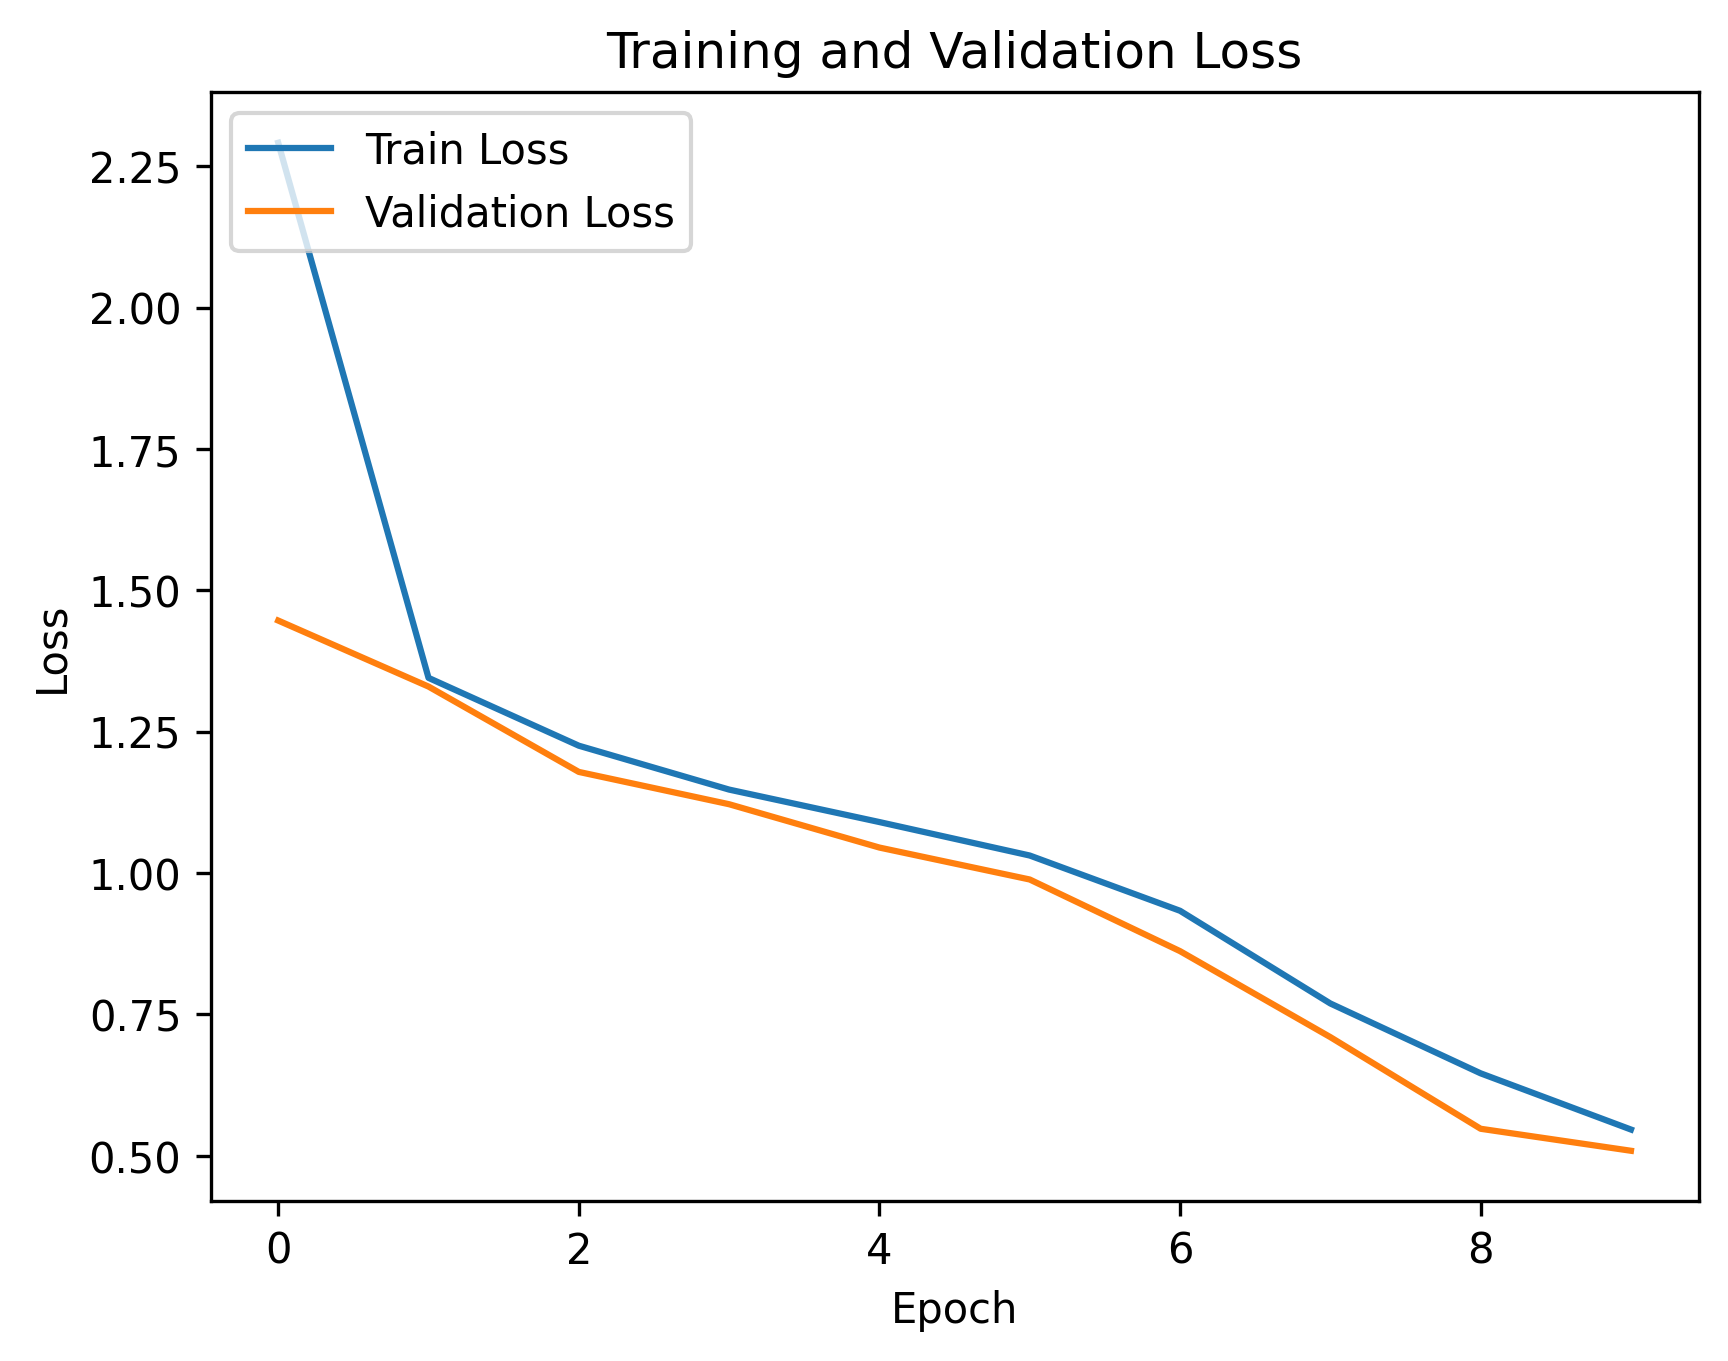
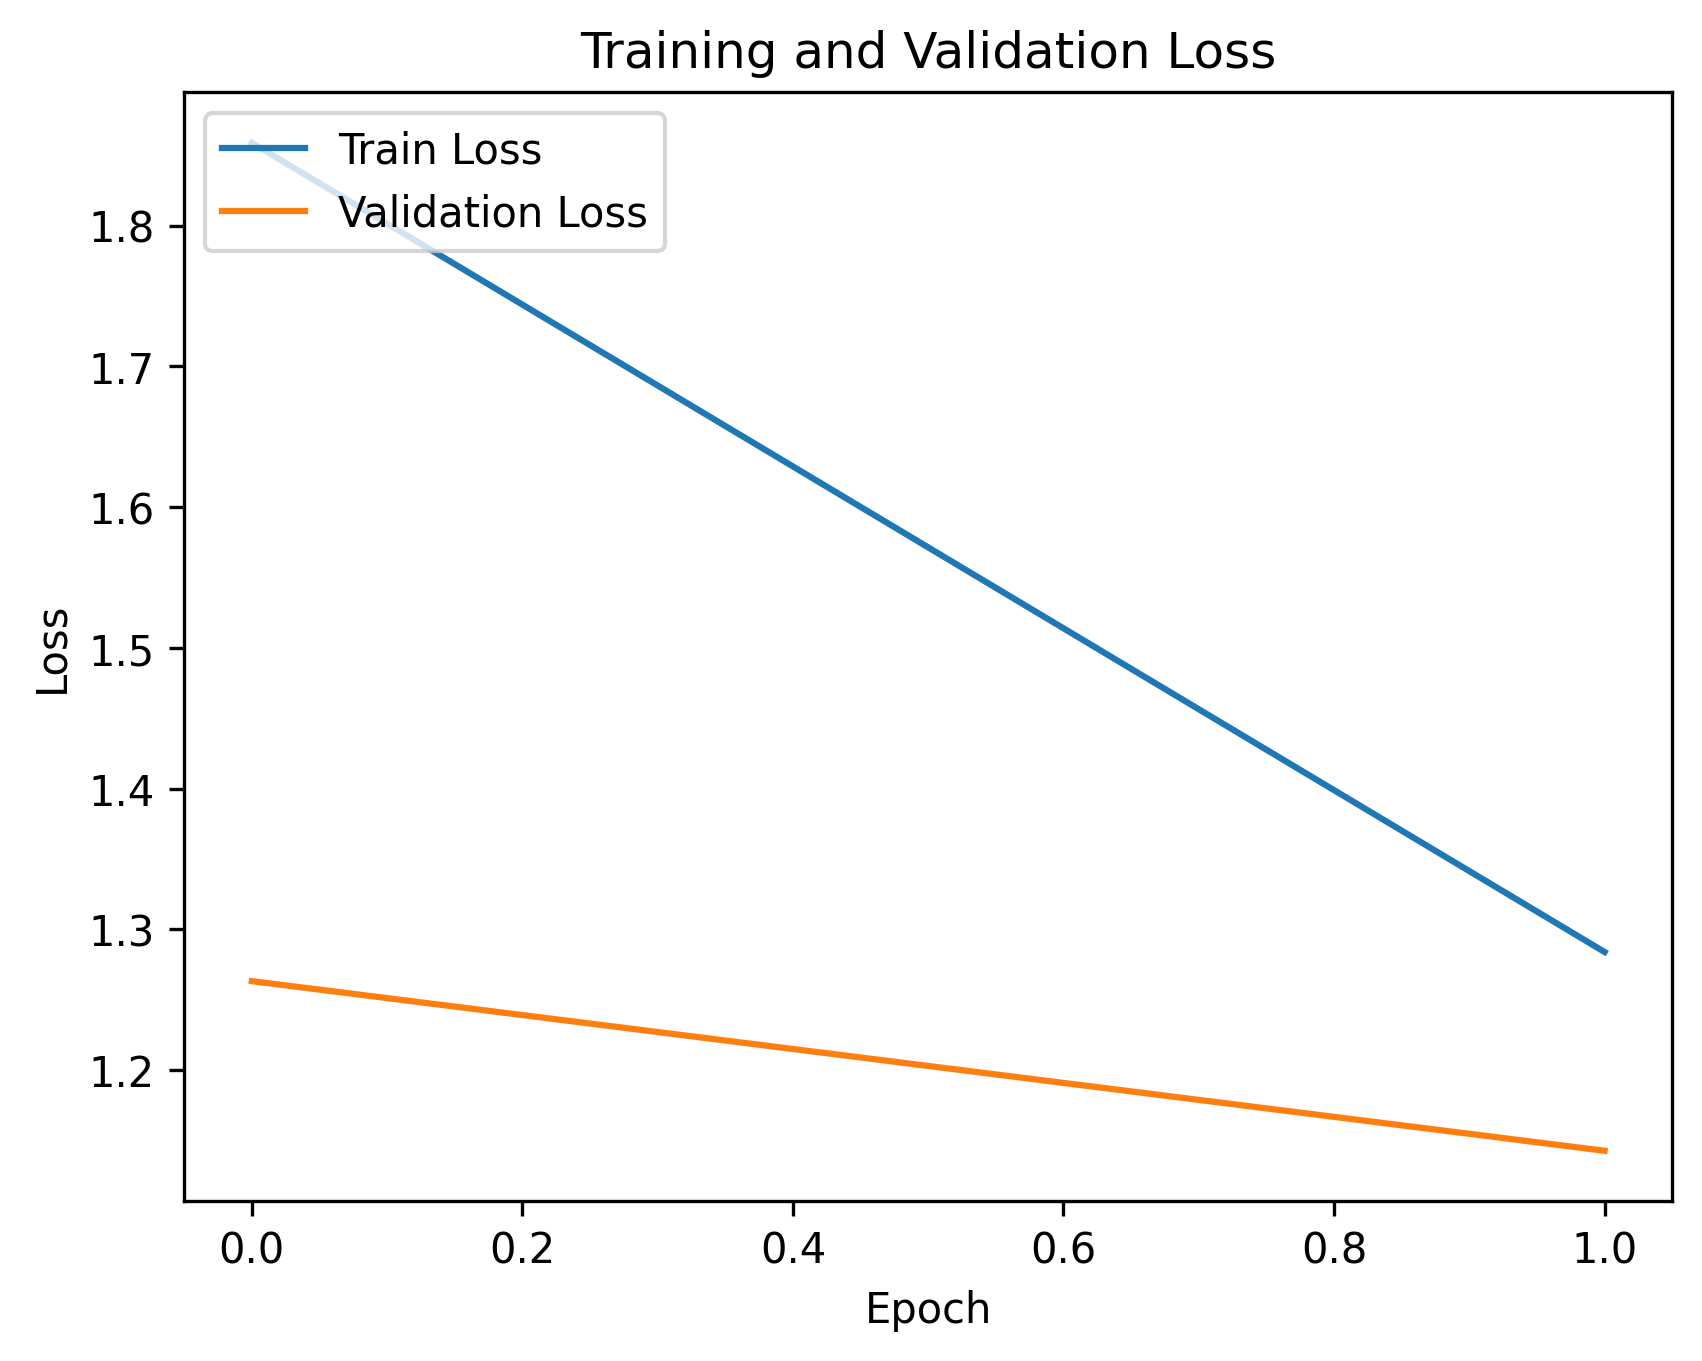
adding functionality to use either full frame auto regression or frame and bin autoreg

diff --git a/specmodel/audio_train.py b/specmodel/audio_train.py
@@ -2,16 +2,16 @@ import torch
 import torch.optim as optim
 from torch.utils.data import DataLoader
 from mel_dataset import collate_fn, MelMaskedDataset
+from mel_model import MelTransformerFrameBin, MelTransformerFrame
 from tqdm import tqdm
 import matplotlib.pyplot as plt
 
 device = torch.device("cuda" if torch.cuda.is_available() else "cpu")
 
-def train_mel(model, train_dataset, val_dataset, num_epochs=50, batch_size=4, lr=1e-4):
+def train_mel(model_type, model, train_dataset, val_dataset, num_epochs=50, batch_size=4, lr=1e-4):
 
     train_dataloader = DataLoader(train_dataset, batch_size=batch_size, collate_fn=collate_fn, shuffle=True)
     val_dataloader = DataLoader(val_dataset, batch_size=batch_size, collate_fn=collate_fn, shuffle=False)
-
 
     model = model.to(device)
     print("Device: ", next(model.parameters()).device)
@@ -27,14 +27,21 @@ def train_mel(model, train_dataset, val_dataset, num_epochs=50, batch_size=4, lr
         progress = tqdm(train_dataloader,desc=f"Epoch {epoch}/{num_epochs}",leave=False)
 
         for mel in progress:
-            loss = train_step(model, criterion, optimizer, mel)
+            if(model_type == "MelTransformerFrameBin"):
+                loss = train_step_framebin(model, criterion, optimizer, mel)
+            elif(model_type == "MelTransformerFrame"):
+                loss = train_step_frame(model, criterion, optimizer, mel)
             total_loss += loss
             progress.set_postfix(train_loss=f"{loss:.4f}")
 
         avg_loss = total_loss / len(train_dataloader)
         train_losses.append(avg_loss)
 
-        avg_val_loss = validate(model, val_dataloader, criterion)
+        if(model_type == "MelTransformerFrameBin"):
+            avg_val_loss = validate_framebin(model, val_dataloader, criterion)
+        elif(model_type == "MelTransformerFrame"):
+            avg_val_loss = validate_frame(model, val_dataloader, criterion)
+
         val_losses.append(avg_val_loss)
 
         print(f"Epoch {epoch}: avg_train_loss = {avg_loss:.4f}, avg_val_loss = {avg_val_loss:.4f}")
@@ -49,7 +56,8 @@ def train_mel(model, train_dataset, val_dataset, num_epochs=50, batch_size=4, lr
     plt.savefig("training vs val loss.png", dpi=300, bbox_inches="tight")
     plt.close()
 
-def train_step(model, criterion, optimizer, mel):
+###-- training functions for frame*freq_bin autoregression --###
+def train_step_framebin(model, criterion, optimizer, mel):
 
     mel = mel.to(device)
 
@@ -70,7 +78,7 @@ def train_step(model, criterion, optimizer, mel):
 
     return loss.item()
 
-def validate(model, dataloader, criterion):
+def validate_framebin(model, dataloader, criterion):
     model.eval()
     total_loss = 0.0
 
@@ -92,7 +100,7 @@ def validate(model, dataloader, criterion):
 
     return total_loss / len(dataloader)
 
-def eval(model, dataset, seed_seconds=7.0, sr=22050, hop_length=256):
+def eval_framebin(model, dataset, seed_seconds=7.0, sr=22050, hop_length=256):
     model.eval()
 
     mel = dataset[0]  # (T, F)
@@ -120,3 +128,77 @@ def eval(model, dataset, seed_seconds=7.0, sr=22050, hop_length=256):
     generated = generated.reshape(1, mel.shape[0], mel.shape[1])
 
     return mel.cpu(), generated.squeeze(0).cpu()
+
+#--------------------------------------------------------------#
+
+###-- training functions for full frame autoregression --###
+def train_step_frame(model, criterion, optimizer, mel):
+
+    mel = mel.to(device)
+
+    # shift for autoregressive training
+    x_input  = mel[:, :-1, :]   # (B, T-1, 80)
+    x_target = mel[:, 1:, :]    # (B, T-1, 80)
+
+    use_model_pred = torch.rand(1).item() < 0.1
+
+    #scheduled sampling randomly
+    if use_model_pred:
+        with torch.no_grad():
+            preds = model(x_input)
+        x_input = preds.detach()
+        
+
+    preds = model(x_input)
+
+    optimizer.zero_grad()
+    loss = criterion(preds, x_target)
+    loss.backward()
+    optimizer.step()
+
+    return loss.item()
+
+def validate_frame(model, dataloader, criterion):
+    model.eval()
+    total_loss = 0.0
+
+    with torch.no_grad():
+        for mel in dataloader:
+            mel = mel.to(device)
+
+            x_input  = mel[:, :-1, :]
+            x_target = mel[:, 1:, :]
+            
+
+            preds = model(x_input)
+
+            loss = criterion(preds, x_target)
+            total_loss += loss.item()
+
+    return total_loss / len(dataloader)
+
+def eval_frame(model, dataset, seed_seconds=7.0, sr=22050, hop_length=256):
+    model.eval()
+
+    mel = dataset[0]  # (T, 80)
+    mel = mel.to(device)
+
+    seed_frames = int(seed_seconds * sr / hop_length)
+
+    seed = mel[:seed_frames].unsqueeze(0)  # (1, T_seed, 80)
+
+    generated = seed.clone()
+
+    num_future = mel.shape[0] - seed_frames
+
+    with torch.no_grad():
+        for _ in range(num_future):
+            preds = model(generated)
+
+            next_frame = preds[:, -1:, :]  # last timestep
+
+            generated = torch.cat([generated, next_frame], dim=1)
+
+    generated = generated.squeeze(0).cpu()
+
+    return mel.cpu(), generated

diff --git a/specmodel/mel_trainer.py b/specmodel/mel_trainer.py
@@ -1,6 +1,6 @@
-from mel_model import MelTransformer
+from mel_model import MelTransformerFrameBin, MelTransformerFrame
 from mel_dataset import MelMaskedDataset, get_dataset_splits
-from audio_train import train_mel, eval
+from audio_train import train_mel, eval_frame, eval_framebin
 from mel_utils import write_to_waveform, get_hifi_gan_generator, compare_mels
 import argparse
 
@@ -40,6 +40,11 @@ def main():
                         type=int, 
                         default=42
                         )
+    
+    parser.add_argument("--model", 
+                        type=str, 
+                        default="MelTransformerFrame"
+                        )
 
     args = parser.parse_args()
 
@@ -70,6 +75,7 @@ def main():
     D_FF = mel_config['dim_feedforward']
     DROPOUT = mel_config['dropout']
 
+    
     full_dataset = MelMaskedDataset(
     mel_dir=args.mel_dir,
     mask_seconds=MASK_SECONDS, 
@@ -83,29 +89,47 @@ def main():
     print("Validation dataset length: ", len(val_set))
 
     try:
-        model = MelTransformer(
+        if(args.model == "MelTransformerFrameBin"):
+            model = MelTransformerFrameBin(
             n_mels=N_MELS, 
             d_model=D_MODEL, 
             n_heads=N_HEADS, 
             n_layers=N_LAYERS,
             dim_feedforward=D_FF,
             dropout=DROPOUT
-        )
-    
+            )
+        elif(args.model == "MelTransformerFrame"):
+            model = MelTransformerFrame(
+            n_mels=N_MELS, 
+            d_model=D_MODEL, 
+            n_heads=N_HEADS, 
+            n_layers=N_LAYERS,
+            dim_feedforward=D_FF,
+            dropout=DROPOUT
+            )
+        else:
+            print("Unable to initialize...wrong model name")
+            exit()
+
     except Exception as e: 
         print("Unable to initialize")
         print(e)
-        exit()
-    
-    
-    print("Beginning Mel Training")
-    train_mel(model=model, train_dataset=train_set, val_dataset=val_set, num_epochs=args.epochs, batch_size=args.batch_size, lr=args.lr)
+        exit()    
+    print("--------------------------")
+    print(f"Beginning Mel Training for {args.model}...")
+    print(f"{args.model}: n_mels: {N_MELS}, d_model: {D_MODEL}, n_heads: {N_HEADS}, n_layers: {N_LAYERS}, dim_feedforward : {D_FF}, dropout: {DROPOUT}")
+    print("--------------------------")
+
+    train_mel(model_type=args.model, model=model, train_dataset=train_set, val_dataset=val_set, num_epochs=args.epochs, batch_size=args.batch_size, lr=args.lr)
     seed_frames = int(CLIP_LENGTH - MASK_SECONDS) #in seconds
-    ground_truth_mel, predicted_mel = eval(model, val_set, seed_seconds=seed_frames)
+    if(args.model=="MelTransformerFrame"):
+        ground_truth_mel, predicted_mel = eval_frame(model, val_set, seed_seconds=seed_frames)
+    elif(args.model=="MelTransformerFrameBin"):
+        ground_truth_mel, predicted_mel = eval_framebin(model, val_set, seed_seconds=seed_frames)
     #generator = get_hifi_gan_generator()
     #write_to_waveform("ground_truth_wav.wav", ground_truth_mel, generator, SAMPLE_RATE)
     #write_to_waveform("predicted_wav.wav", predicted_mel, generator, SAMPLE_RATE)
-    compare_mels(groundtruth=ground_truth_mel, predmel=predicted_mel, sample_rate=SAMPLE_RATE, hop_length=HOP_LENGTH)
+    compare_mels(model_type=args.model, groundtruth=ground_truth_mel, predmel=predicted_mel, sample_rate=SAMPLE_RATE, hop_length=HOP_LENGTH)
 
 
 if __name__ == "__main__":

diff --git a/specmodel/mel_model.py b/specmodel/mel_model.py
@@ -7,7 +7,8 @@ def generate_causal_mask(T, device):
         mask = torch.triu(torch.ones(T, T, device=device), diagonal=1)
         return mask.bool()
 
-class MelTransformer(nn.Module):
+###-- Used for Frame*Freq_bin auto regression --###
+class MelTransformerFrameBin(nn.Module):
     def __init__(
         self,
         n_mels,
@@ -19,7 +20,7 @@ class MelTransformer(nn.Module):
         max_len=2000  # for positional encoding
 
     ):
-        super(MelTransformer, self).__init__()
+        super(MelTransformerFrameBin, self).__init__()
 
         self.input_proj = nn.Linear(1, d_model)
 
@@ -59,4 +60,59 @@ class MelTransformer(nn.Module):
 
         x = self.output_proj(x)  # (B, L, 1)
 
+        return x
+
+###-- Used for Frame auto regression --###
+class MelTransformerFrame(nn.Module):
+    def __init__(
+        self,
+        n_mels=80,
+        d_model=128,
+        n_heads=4,
+        n_layers=4,
+        dim_feedforward=512,
+        dropout=0.1,
+        max_len=2000  # for positional encoding
+
+    ):
+        super(MelTransformerFrame, self).__init__()
+
+        self.input_proj = nn.Linear(n_mels, d_model)
+
+        self.pos_embedding = nn.Parameter(torch.randn(1, max_len, d_model))
+
+        encoder_layer = nn.TransformerEncoderLayer(
+            d_model=d_model,
+            nhead=n_heads,
+            dim_feedforward=dim_feedforward,
+            activation = "relu",
+            dropout=dropout,
+            batch_first=True
+        )
+
+        self.transformer = nn.TransformerEncoder(
+            encoder_layer,
+            num_layers=n_layers
+        )
+
+        self.output_proj = nn.Linear(d_model, n_mels)
+    
+
+    def forward(self, x):
+        # x: (B, T, 80)
+
+        #input projection to encoder
+        x = self.input_proj(x)     # (B, T, D)
+
+        #positional encoding
+        T = x.size(1)
+        x = x + self.pos_embedding[:, :T, :]
+
+        #causal mask
+        causal_mask = generate_causal_mask(T, x.device)
+
+        x = self.transformer(x, mask=causal_mask)
+
+        x = self.output_proj(x)    # (B, T, 80)
+    
         return x

diff --git a/specmodel/mel_utils.py b/specmodel/mel_utils.py
@@ -45,7 +45,7 @@ def get_hifi_gan_generator():
     generator.remove_weight_norm()
     return generator
 
-def compare_mels(groundtruth, predmel, sample_rate, hop_length):
+def compare_mels(model_type, groundtruth, predmel, sample_rate, hop_length):
     #mel specs are (2583, 80) #time x n_mels, librosa expects n_mels x time
     gt_np = groundtruth.detach().cpu().numpy().T
     pred_np = predmel.detach().cpu().numpy().T
@@ -88,5 +88,5 @@ def compare_mels(groundtruth, predmel, sample_rate, hop_length):
     plt.title("Prediction")
     plt.colorbar(img2, format="%+2.0f", label="Log Mel energy (natural log not dB)")
 
-    plt.savefig("mel_debug.png", dpi=300, bbox_inches="tight")
+    plt.savefig(f"mel_debug_{model_type}.png", dpi=300, bbox_inches="tight")
     plt.close()
